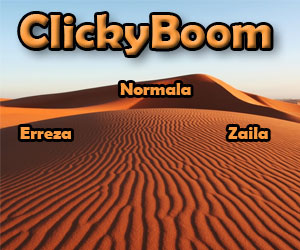
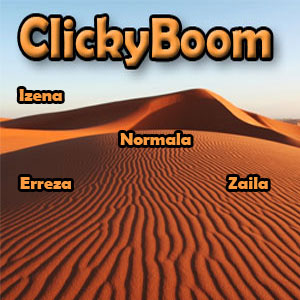
Login-a eta Menu-a bilduta. Login klasea ez da erabiltzen jada, guztia Menu-n.

diff --git a/interfazea/Menu.java b/interfazea/Menu.java
@@ -37,7 +37,7 @@ public class Menu extends JFrame {
 		setTitle("ClickyBoom");
 		setDefaultCloseOperation(JFrame.EXIT_ON_CLOSE);
 		Dimension dim = Toolkit.getDefaultToolkit().getScreenSize();
-		setSize(302, 278);
+		setSize(302, 328);
 		int x = (int) ((dim.getWidth() - this.getWidth()) / 2);
 		int y = (int) ((dim.getHeight() - this.getHeight()) / 2);
 		this.setLocation(x, y-40);//40 hori Windows-en "Barra de tareas"-en altuera da
@@ -53,33 +53,54 @@ public class Menu extends JFrame {
 	}
 	
 	private void botoiak(){
+		
+		JTextField izena = new JTextField(10);
+		izena.setToolTipText("Idatzi zure izena");
+		izena.setBounds(75, 80, 150, 30);
+		
+		Font letra = new Font("Courier", Font.BOLD, 15);
+		izena.setFont(letra);
+		
+		izena.setBackground(Color.ORANGE);
+		getContentPane().add(izena);
+		
+		/*izena.addFocusListener(new FocusListener() {
+		    public void focusGained(FocusEvent e) {
+		        izena.setText("");
+		    }
+
+		    public void focusLost(FocusEvent e) {
+		    }
+		});*/
+		
+		
 		JButton b1 = new JButton();
 	    b1.setIcon(new ImageIcon(this.getClass().getResource("/argazkiak/Erreza.jpg")));
-	    b1.setBounds(15, 150, b1.getIcon().getIconWidth(), b1.getIcon().getIconHeight());
+	    b1.setBounds(13, 200, b1.getIcon().getIconWidth(), b1.getIcon().getIconHeight());
 	    getContentPane().add(b1);
 	    b1.addActionListener(new ActionListener() {	
 			public void actionPerformed(ActionEvent e) {
-				aukeratu("erraza");
+				aukeratu("erraza", izena.getText());
 			}
 		});
 	    
 	    JButton b2 = new JButton();
 	    b2.setIcon(new ImageIcon(this.getClass().getResource("/argazkiak/Normala.jpg")));
-	    b2.setBounds(120, 111, b2.getIcon().getIconWidth(), b2.getIcon().getIconHeight());
+	    b2.setBounds(121, 155, b2.getIcon().getIconWidth(), b2.getIcon().getIconHeight());
 	    getContentPane().add(b2);
 	    b2.addActionListener(new ActionListener() {	
 			public void actionPerformed(ActionEvent e) {
-				aukeratu("normala");
+				aukeratu("normala", izena.getText());
 			}
 		});
 	    
 	    JButton b3 = new JButton();
 	    b3.setIcon(new ImageIcon(this.getClass().getResource("/argazkiak/Zaila.jpg")));
-	    b3.setBounds(220, 150, b3.getIcon().getIconWidth(), b3.getIcon().getIconHeight());
+	    b3.setBounds(216, 200, b3.getIcon().getIconWidth(), b3.getIcon().getIconHeight());
 	    getContentPane().add(b3);
 	    b3.addActionListener(new ActionListener() {	
 			public void actionPerformed(ActionEvent e) {
-				aukeratu("zaila");
+				aukeratu("zaila", izena.getText());
 			}
 		});
 		JMenuBar menuBar = new JMenuBar();
@@ -108,13 +129,23 @@ public class Menu extends JFrame {
 
 	}
 	
-	private void aukeratu(String zailtasun){
+	private void aukeratu(String pZailtasun, String pIzena){
 		Jokoa j = Jokoa.getNireJokoa();
-		j.setZailtasun(zailtasun);
+		j.aldatuJokalaria(pIzena);
+		j.setZailtasun(pZailtasun);
+		dispose();
+		Pantaila p = Pantaila.getNPantaila();
+		p.setVisible(true);
+	}
+	
+	/*private void aukeratu(String pZailtasun){
+		Jokoa j = Jokoa.getNireJokoa();
+		
 		dispose();
 	    Pantaila p = Pantaila.getNPantaila();
 		System.out.println("Pantaila sortu dugu");
-		p.setVisible(true);
+		
 		System.out.println("Tableroa sortu dugu");
-	}
+	}*/
+	
 }

diff --git a/clickyboom/Jokoa.java b/clickyboom/Jokoa.java
@@ -81,15 +81,17 @@ public class Jokoa {
 
 	
 	public void jokoaHasieratu(){
-		//llama al login que llama al menu que llama al juego y a jugar
-		Login l = new Login();
-		l.setVisible(true);
-	}
-	
-	public void zailtasunaAukeratu() {
+		//Llama a menu, que ahora tiene el Login y el selector de dificultad junto
+		/*Login l = new Login();
+		l.setVisible(true);*/
 		Menu m = new Menu();
 		m.setVisible(true);	
 	}
+	
+	/*public void zailtasunaAukeratu() {
+		Menu m = new Menu();
+		m.setVisible(true);	
+	}*/
 
 	public void amaitu(boolean irabazi) {
 		timer.cancel();
